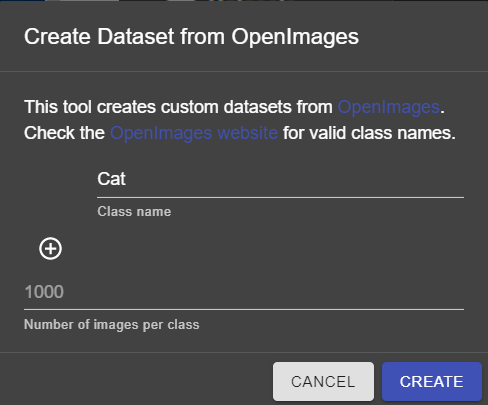
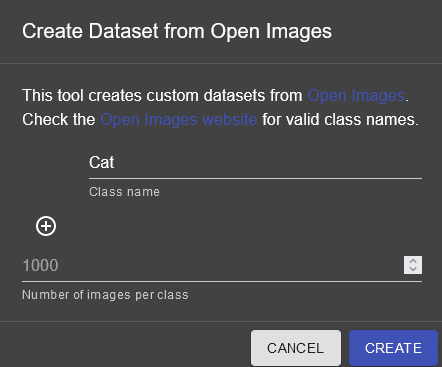
Update Open Images docs

diff --git a/source/docs/software/wpilib-tools/axon/create-a-dataset-with-open-images.rst b/source/docs/software/wpilib-tools/axon/create-a-dataset-with-open-images.rst
@@ -1,33 +1,46 @@
 Creating a Dataset with Open Images
 ===================================
 
-For the detection of more generic objects, Axon's creator can be used to make a dataset from OpenImages.
+For the detection of more generic objects, Axon's creator can be used to make a dataset from Google's Open Images dataset.
 
 Creating a Dataset
 ------------------
 
-Click the create a dataset button to begin.
+Click the :guilabel:`Create Dataset` button to begin.
 
 .. image:: images/open-images/create-button.png
   :alt: Create Dataset Button.
 
-Choosing the Classes
------------------------
+Choosing the Class Names
+^^^^^^^^^^^^^^^^^^^^^^^^
 
-Next, you need to pick the classes that you would like to detect. They must be selected from the categories that are available in the Open Images dataset. More information on the dataset can be found here: `Open Images <https://storage.googleapis.com/openimages/web/index.html>`__ .
+Next, you need to pick the classes that you would like to detect. They must be selected from the classes available at the `Open Images dataset website <https://storage.googleapis.com/openimages/web/index.html>`__ . Change the :guilabel:`category` in the top bar to see available classes. In the below picture, :guilabel:`Cat` is selected, but other class names like :guilabel:`Caterpillar` are shown to be valid.
+
+.. image:: images/open-images/website.png
+  :alt: The Open Images website
+
+When you have determined the valid class names of the objects that you wish to detect, you can type them into dialog as shown below.
 
 .. image:: images/open-images/class-name.png
   :alt: Choose the Class Name you want to get images of.
 
-Furthermore, using the add button, you can choose to make a dataset containing more than one class. Subsequently, you can also remove classes using the remove button.
+Furthermore, using the :guilabel:`add` button, you can choose to make a dataset containing more than one class. Subsequently, you can also remove classes using the :guilabel:`remove` button.
 
 .. image:: images/open-images/add-remove.png
   :alt: Add or remove classes.
 
 Choosing the Number of Images
------------------------------
+^^^^^^^^^^^^^^^^^^^^^^^^^^^^^
 
-Finally, you can select the amount of images that you want for each class category in your dataset and click create. It might take a while, but once it's complete you will have a dataset that's ready to use!
+Finally, you can select the amount of images that you want for each class category in your dataset and click :guilabel:`create`.
 
 .. image:: images/open-images/number.png
   :alt: Set the number of images you want.
+
+Waiting
+-------
+
+The creation process will take from a couple seconds to several minutes, depending on the size of your dataset. The newly-created dataset will be automatically imported into the dataset pane on the left side of the screen, but there is a :guilabel:`Download` button for sending the dataset to a teammate.
+
+.. image:: images/open-images/completed.png
+  :alt: What a completed creation job should look like.
